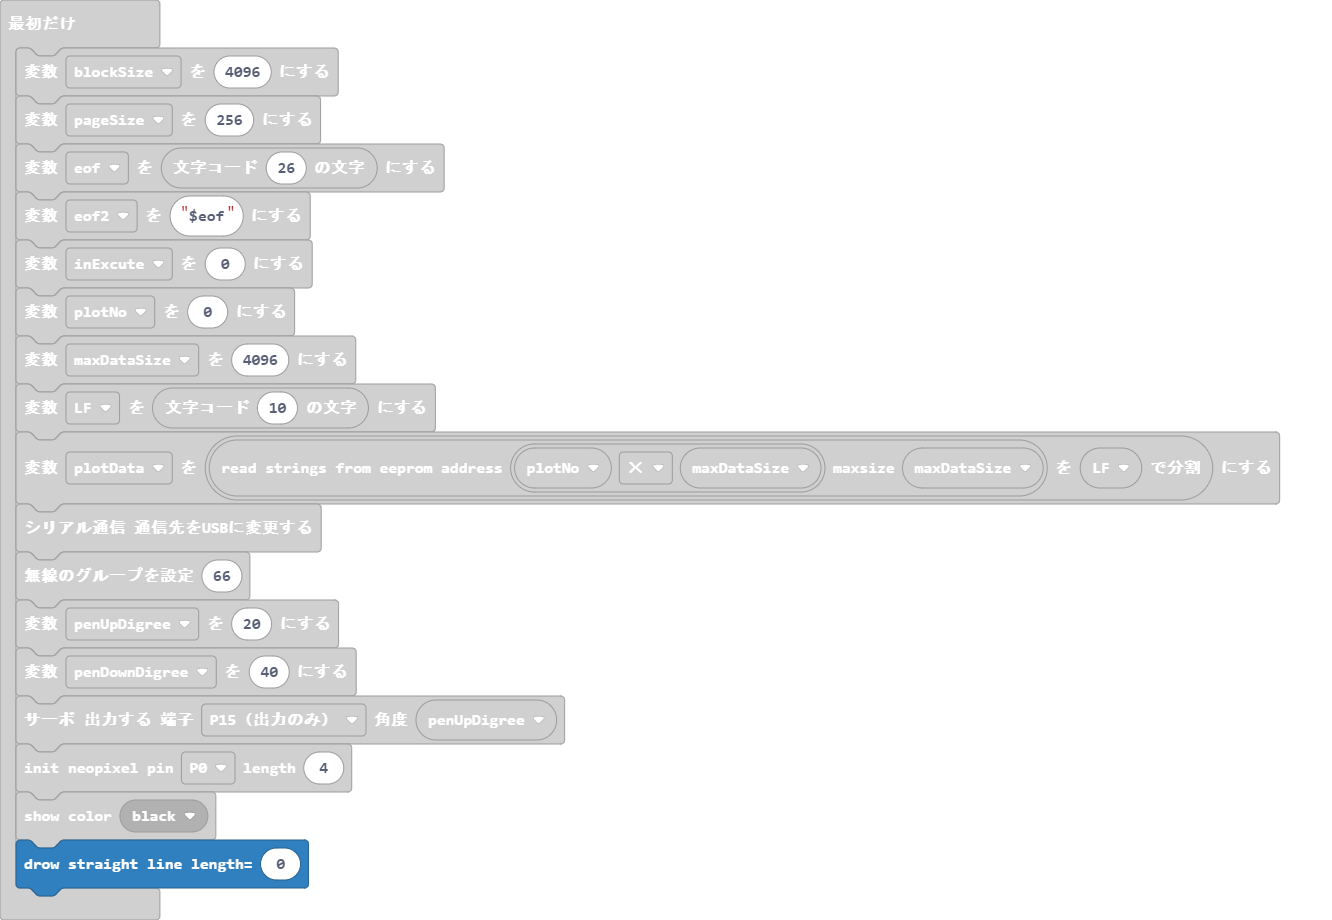
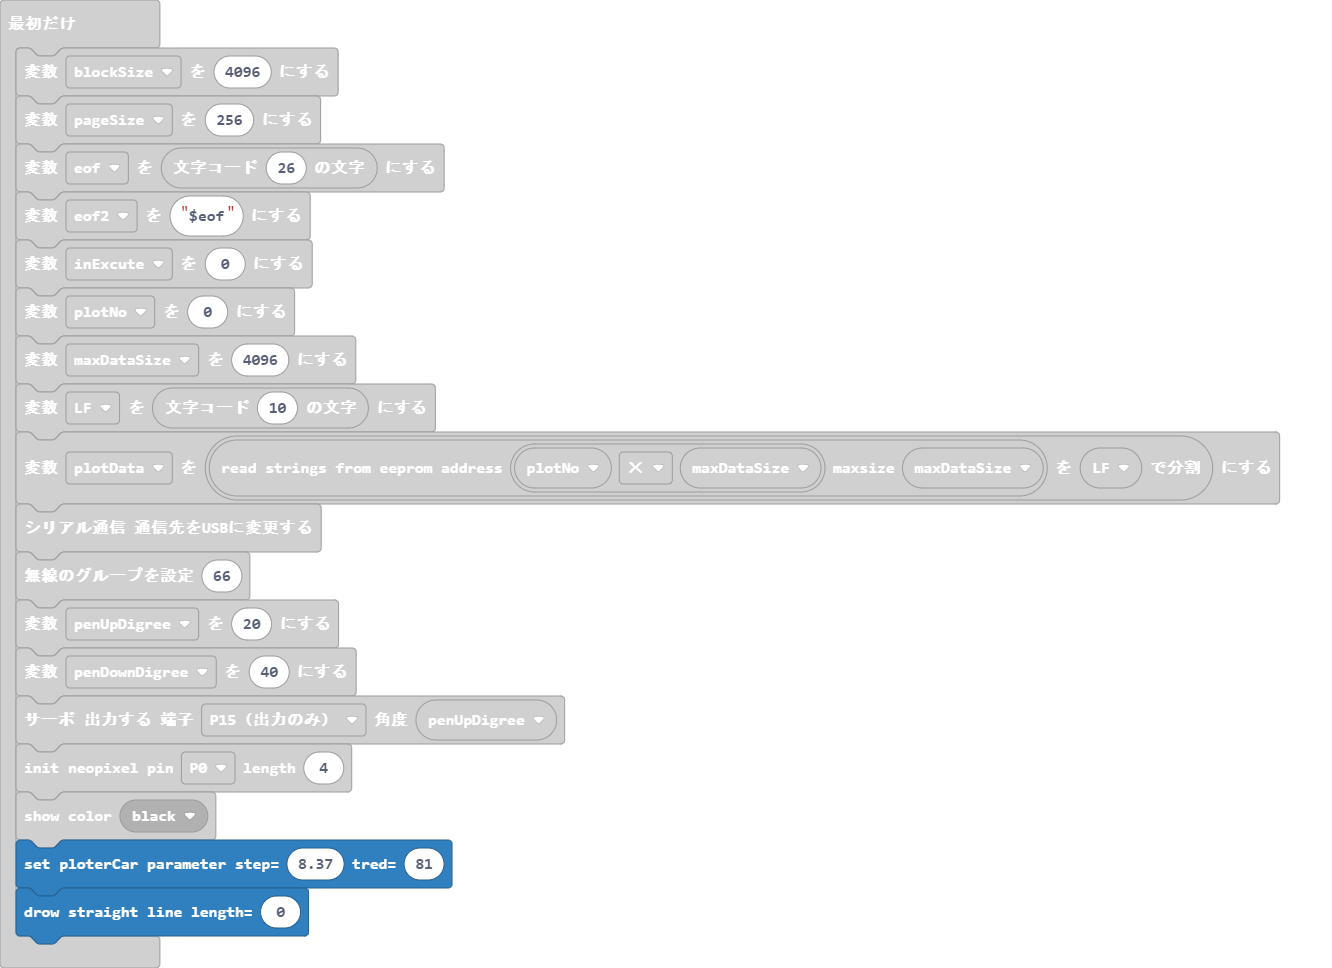
更新 pxt.json, main.blocks, main.ts

Changed region(s): [[0.0, 0.0304, 0.985, 0.9739]]

diff --git a/main.ts b/main.ts
@@ -173,6 +173,7 @@ penDownDigree = 40
 pins.servoWritePin(AnalogPin.P15, penUpDigree)
 neopixel.initNeopixel(DigitalPin.P0, 4)
 neopixel.showColor(neopixel.colors(neopixel.Colors.Black))
+plotterCar.setParameter(8.37, 81)
 plotterCar.Straight(0)
 basic.forever(function () {
     if (QUEUE.length > 0) {
